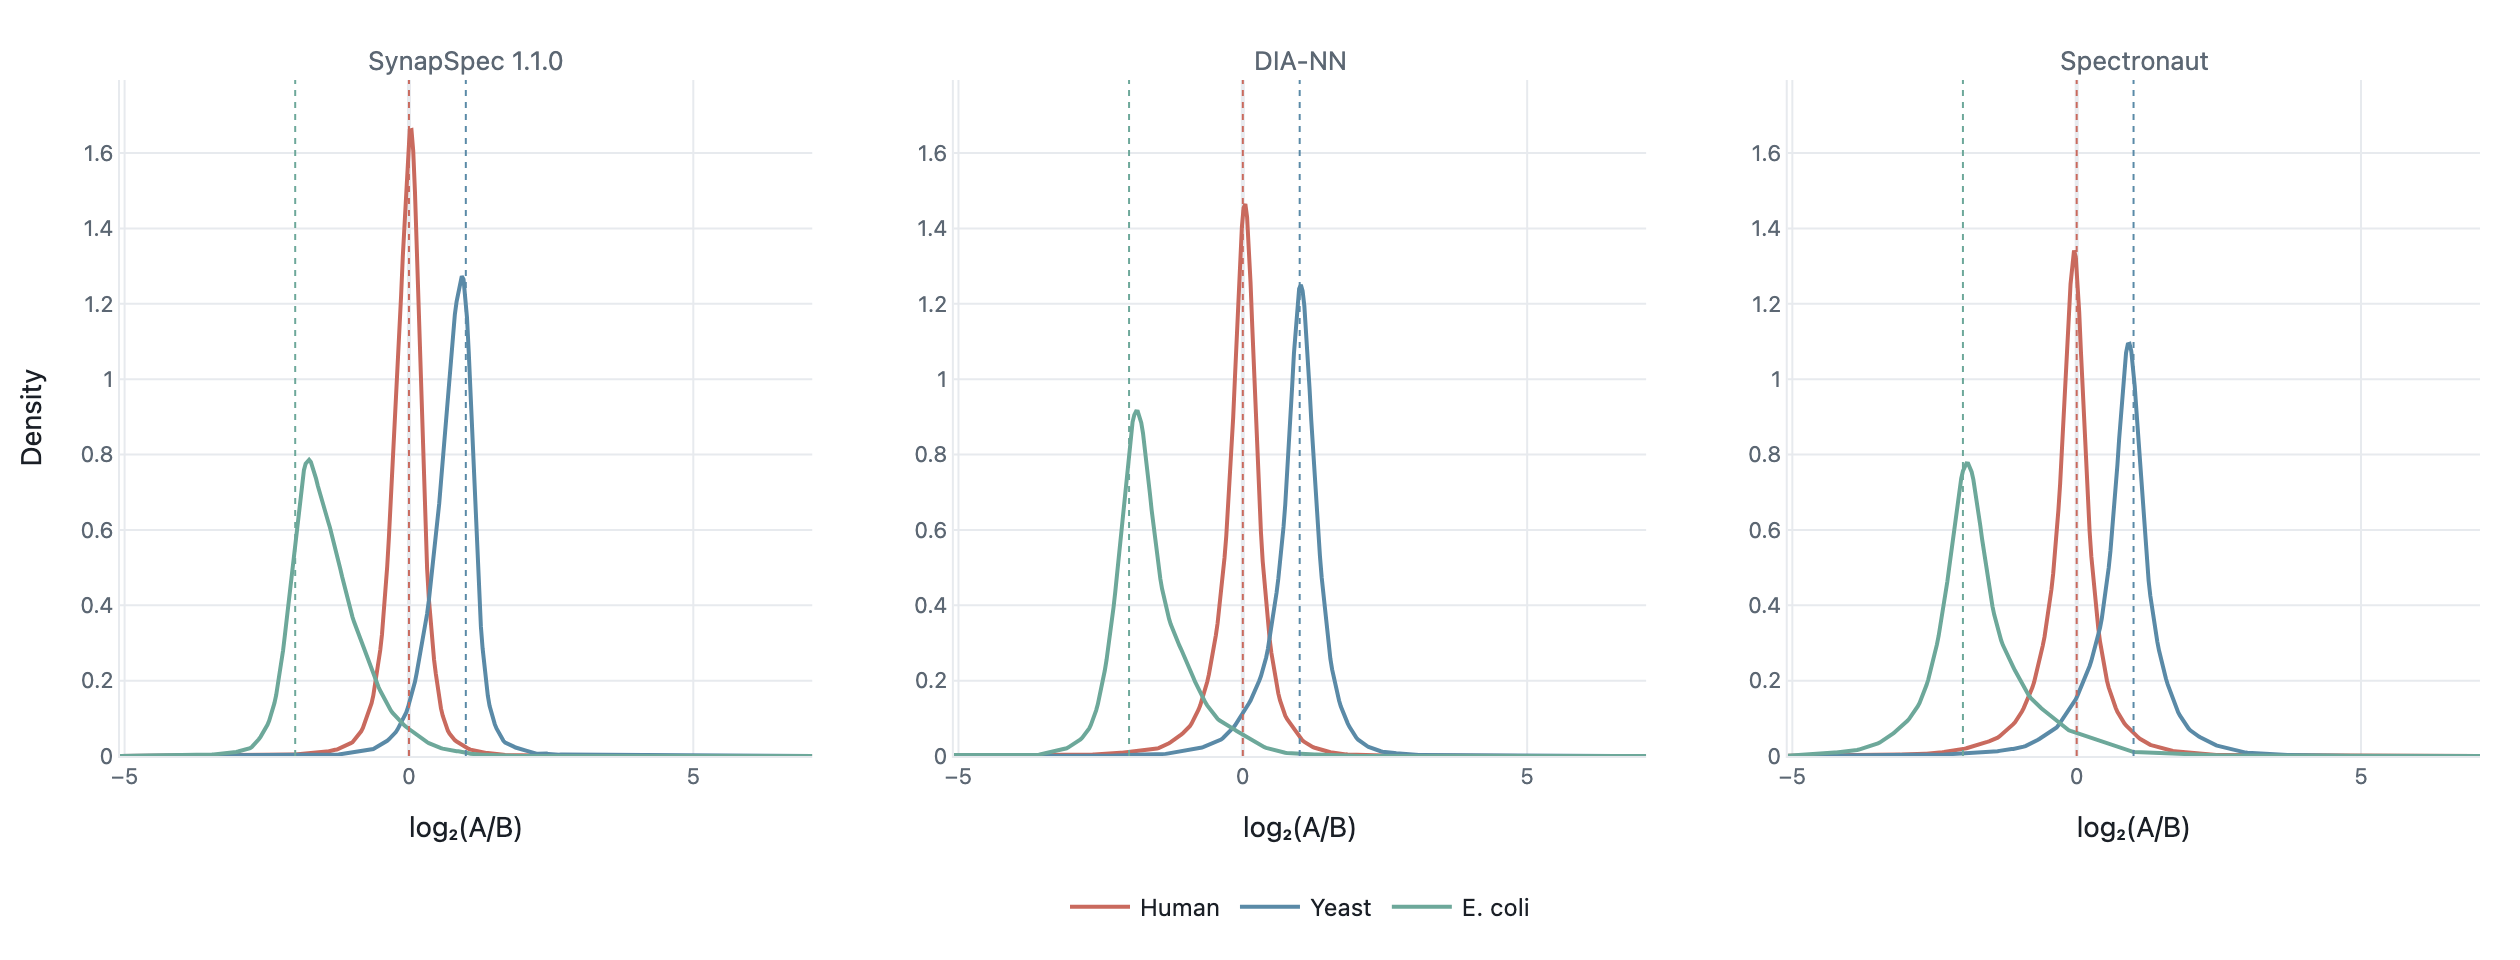
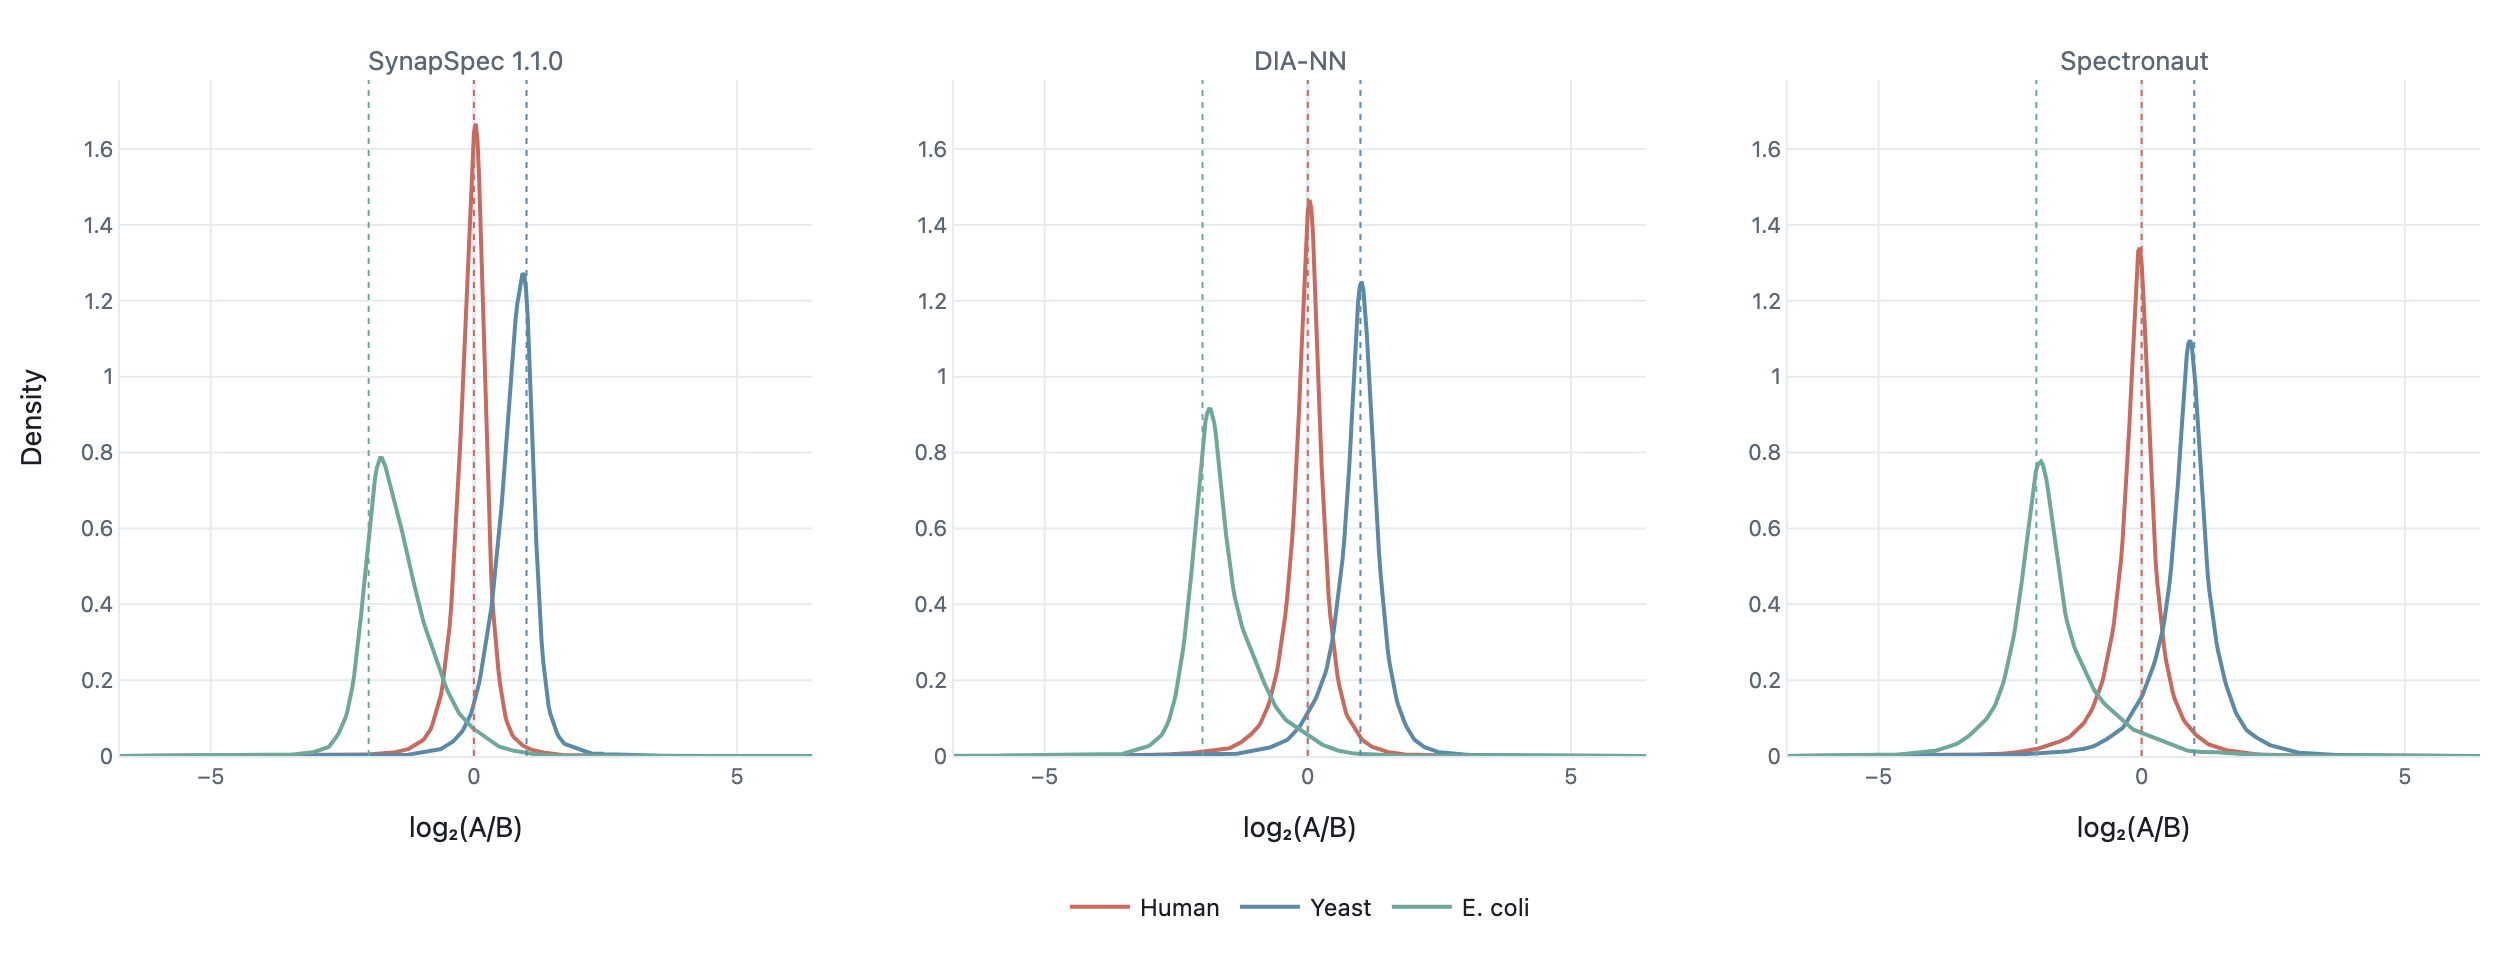
fix(benchmarks): keep release plot axes consistent

diff --git a/scripts/render_scatter_images.py b/scripts/render_scatter_images.py
@@ -8,9 +8,9 @@ with Plotly (Python) and Kaleido, then writes each result to
 site/public/data/benchmarks/scatter-{slug}.png. At runtime, the page only needs to
 download a single image.
 
-SynapSpec, DIA-NN, and Spectronaut are shown as subplots in one figure. Each tool
-keeps its own x-axis sensitivity range, while every panel uses the SynapSpec run's
-y-axis range for comparison.
+SynapSpec, DIA-NN, and Spectronaut are shown as subplots in one figure. Releases
+in the same benchmark ledger reuse the v1.0.0 axes when that baseline is
+available, so version pages remain directly comparable.
 
 One-time local setup (does not affect the site or CI):
     brew install --cask font-pretendard   # Match the site's font in generated images.
@@ -45,14 +45,19 @@ SPECIES_ORDER = ("Human", "Yeast", "E. coli")
 TARGETS = {"Human": 0, "Yeast": 1, "E. coli": -2}
 MARKER_SIZE = 2
 MARKER_OPACITY = 0.25
+AXIS_REFERENCE_VERSION = "v1.0.0"
 
 PANEL_WIDTH = 420
 PANEL_HEIGHT = 480
 
 
 def parse_args() -> argparse.Namespace:
-    parser = argparse.ArgumentParser(description=__doc__, formatter_class=argparse.RawDescriptionHelpFormatter)
-    parser.add_argument("--slug", help="Render only this run (default: every run with diagnostics)")
+    parser = argparse.ArgumentParser(
+        description=__doc__, formatter_class=argparse.RawDescriptionHelpFormatter
+    )
+    parser.add_argument(
+        "--slug", help="Render only this run (default: every run with diagnostics)"
+    )
     return parser.parse_args()
 
 
@@ -61,31 +66,91 @@ def load_json(path: Path) -> dict:
 
 
 def panels_for(slug: str, ledgers: list) -> list[dict]:
-    ledger = next((l for l in ledgers if any(r.get("sourceSlug") == slug for r in l["rows"])), None)
-    row = next((r for r in ledger["rows"] if r.get("sourceSlug") == slug), None) if ledger else None
+    ledger = next(
+        (l for l in ledgers if any(r.get("sourceSlug") == slug for r in l["rows"])),
+        None,
+    )
+    row = (
+        next((r for r in ledger["rows"] if r.get("sourceSlug") == slug), None)
+        if ledger
+        else None
+    )
     version = str(row.get("release_version") or "").removeprefix("v") if row else ""
     title = f"SynapSpec {version}" if version else "SynapSpec"
     panels = [{"tool": title, "path": BENCH_DIR / f"scatter-{slug}.json"}]
     if ledger:
         for tool in ("DIA-NN", "Spectronaut"):
-            ref = next((r for r in ledger["toolReferences"] if r["tool"] == tool and r.get("sourceSlug")), None)
+            ref = next(
+                (
+                    r
+                    for r in ledger["toolReferences"]
+                    if r["tool"] == tool and r.get("sourceSlug")
+                ),
+                None,
+            )
             if ref:
-                panels.append({"tool": tool, "path": BENCH_DIR / f"scatter-{ref['sourceSlug']}.json"})
+                panels.append(
+                    {
+                        "tool": tool,
+                        "path": BENCH_DIR / f"scatter-{ref['sourceSlug']}.json",
+                    }
+                )
     return [p for p in panels if p["path"].exists()]
 
 
-def primary_y_range(cloud: dict, pad_fraction: float = 0.04) -> list[float]:
-    values = [value for points in cloud.values() for value in points["y"]]
+def reference_slug_for(slug: str, ledgers: list) -> str:
+    ledger = next(
+        (
+            item
+            for item in ledgers
+            if any(row.get("sourceSlug") == slug for row in item["rows"])
+        ),
+        None,
+    )
+    if not ledger:
+        return slug
+    reference = next(
+        (
+            row
+            for row in ledger["rows"]
+            if row.get("release_version") == AXIS_REFERENCE_VERSION
+        ),
+        None,
+    )
+    return (
+        reference.get("sourceSlug")
+        if reference and reference.get("sourceSlug")
+        else slug
+    )
+
+
+def padded_range(cloud: dict, coordinate: str, pad_fraction: float) -> list[float]:
+    values = [value for points in cloud.values() for value in points[coordinate]]
     lo, hi = min(values), max(values)
     pad = (hi - lo) * pad_fraction
     return [lo - pad, hi + pad]
 
 
-def render(slug: str, panels: list[dict]) -> None:
-    clouds = [load_json(p["path"]) for p in panels]
-    y_range = primary_y_range(clouds[0])
+def primary_y_range(cloud: dict, pad_fraction: float = 0.04) -> list[float]:
+    return padded_range(cloud, "y", pad_fraction)
 
-    fig = make_subplots(rows=1, cols=len(panels), subplot_titles=[p["tool"] for p in panels], horizontal_spacing=0.06)
+
+def panel_x_range(cloud: dict, pad_fraction: float = 0.071) -> list[float]:
+    return padded_range(cloud, "x", pad_fraction)
+
+
+def render(slug: str, panels: list[dict], reference_panels: list[dict]) -> None:
+    clouds = [load_json(p["path"]) for p in panels]
+    reference_clouds = [load_json(panel["path"]) for panel in reference_panels]
+    y_range = primary_y_range(reference_clouds[0])
+    x_ranges = [panel_x_range(cloud) for cloud in reference_clouds]
+
+    fig = make_subplots(
+        rows=1,
+        cols=len(panels),
+        subplot_titles=[p["tool"] for p in panels],
+        horizontal_spacing=0.06,
+    )
 
     for i, (panel, cloud) in enumerate(zip(panels, clouds), start=1):
         axis_suffix = "" if i == 1 else str(i)
@@ -123,10 +188,13 @@ def render(slug: str, panels: list[dict]) -> None:
                 yref=f"y{axis_suffix}",
                 y0=target,
                 y1=target,
-                line=dict(color=SPECIES_COLORS.get(species, COLOR_TEXT), width=1, dash="dot"),
+                line=dict(
+                    color=SPECIES_COLORS.get(species, COLOR_TEXT), width=1, dash="dot"
+                ),
             )
 
         fig.update_xaxes(
+            range=x_ranges[i - 1] if i <= len(x_ranges) else panel_x_range(cloud),
             title_text="log₂(mean quantity in B)",
             row=1,
             col=i,
@@ -152,7 +220,9 @@ def render(slug: str, panels: list[dict]) -> None:
         paper_bgcolor="rgba(0,0,0,0)",
         plot_bgcolor="rgba(0,0,0,0)",
         showlegend=True,
-        legend=dict(orientation="h", x=0.5, xanchor="center", y=-0.18, itemsizing="constant"),
+        legend=dict(
+            orientation="h", x=0.5, xanchor="center", y=-0.18, itemsizing="constant"
+        ),
         margin=dict(t=40, r=20, b=90, l=60),
         width=PANEL_WIDTH * len(panels),
         height=PANEL_HEIGHT,
@@ -161,7 +231,9 @@ def render(slug: str, panels: list[dict]) -> None:
 
     out_path = BENCH_DIR / f"scatter-{slug}.png"
     fig.write_image(str(out_path), scale=2)
-    print(f"wrote {out_path.relative_to(ROOT)} ({len(panels)} panel(s): {', '.join(p['tool'] for p in panels)})")
+    print(
+        f"wrote {out_path.relative_to(ROOT)} ({len(panels)} panel(s): {', '.join(p['tool'] for p in panels)})"
+    )
 
 
 def main() -> None:
@@ -183,7 +255,8 @@ def main() -> None:
         if not panels:
             print(f"skip {slug}: no scatter data")
             continue
-        render(slug, panels)
+        reference_panels = panels_for(reference_slug_for(slug, ledgers), ledgers)
+        render(slug, panels, reference_panels or panels)
 
 
 if __name__ == "__main__":

diff --git a/scripts/render_density_images.py b/scripts/render_density_images.py
@@ -9,9 +9,10 @@ render_scatter_images.py. Each species y value is already a precursor-level
 log2(A/B) ratio, so SciPy computes the KDE and Plotly (Python) with Kaleido writes
 site/public/data/benchmarks/density-{slug}.png.
 
-SynapSpec, DIA-NN, and Spectronaut are shown as adjacent subplots. Every panel
-uses the SynapSpec run's log2 ratio range and a shared density range. Static
-rendering also prevents axes from shifting as additional panels load.
+SynapSpec, DIA-NN, and Spectronaut are shown as adjacent subplots. Releases in
+the same benchmark ledger reuse the v1.0.0 axes when that baseline is available,
+so version pages remain directly comparable. Static rendering also prevents axes
+from shifting as additional panels load.
 
 One-time local setup (does not affect the site or CI):
     brew install --cask font-pretendard
@@ -46,6 +47,7 @@ COLOR_BORDER = "#e7eaee"
 SPECIES_COLORS = {"Human": "#c96a5e", "Yeast": "#5a8aa7", "E. coli": "#6da89a"}
 SPECIES_ORDER = ("Human", "Yeast", "E. coli")
 TARGETS = {"Human": 0, "Yeast": 1, "E. coli": -2}
+AXIS_REFERENCE_VERSION = "v1.0.0"
 
 PANEL_WIDTH = 420
 PANEL_HEIGHT = 480
@@ -53,8 +55,12 @@ GRID_POINTS = 400
 
 
 def parse_args() -> argparse.Namespace:
-    parser = argparse.ArgumentParser(description=__doc__, formatter_class=argparse.RawDescriptionHelpFormatter)
-    parser.add_argument("--slug", help="Render only this run (default: every run with diagnostics)")
+    parser = argparse.ArgumentParser(
+        description=__doc__, formatter_class=argparse.RawDescriptionHelpFormatter
+    )
+    parser.add_argument(
+        "--slug", help="Render only this run (default: every run with diagnostics)"
+    )
     return parser.parse_args()
 
 
@@ -63,17 +69,62 @@ def load_json(path: Path) -> dict:
 
 
 def panels_for(slug: str, ledgers: list) -> list[dict]:
-    ledger = next((l for l in ledgers if any(r.get("sourceSlug") == slug for r in l["rows"])), None)
-    row = next((r for r in ledger["rows"] if r.get("sourceSlug") == slug), None) if ledger else None
+    ledger = next(
+        (l for l in ledgers if any(r.get("sourceSlug") == slug for r in l["rows"])),
+        None,
+    )
+    row = (
+        next((r for r in ledger["rows"] if r.get("sourceSlug") == slug), None)
+        if ledger
+        else None
+    )
     version = str(row.get("release_version") or "").removeprefix("v") if row else ""
     title = f"SynapSpec {version}" if version else "SynapSpec"
     panels = [{"tool": title, "path": BENCH_DIR / f"scatter-{slug}.json"}]
     if ledger:
         for tool in ("DIA-NN", "Spectronaut"):
-            ref = next((r for r in ledger["toolReferences"] if r["tool"] == tool and r.get("sourceSlug")), None)
+            ref = next(
+                (
+                    r
+                    for r in ledger["toolReferences"]
+                    if r["tool"] == tool and r.get("sourceSlug")
+                ),
+                None,
+            )
             if ref:
-                panels.append({"tool": tool, "path": BENCH_DIR / f"scatter-{ref['sourceSlug']}.json"})
+                panels.append(
+                    {
+                        "tool": tool,
+                        "path": BENCH_DIR / f"scatter-{ref['sourceSlug']}.json",
+                    }
+                )
     return [p for p in panels if p["path"].exists()]
+
+
+def reference_slug_for(slug: str, ledgers: list) -> str:
+    ledger = next(
+        (
+            item
+            for item in ledgers
+            if any(row.get("sourceSlug") == slug for row in item["rows"])
+        ),
+        None,
+    )
+    if not ledger:
+        return slug
+    reference = next(
+        (
+            row
+            for row in ledger["rows"]
+            if row.get("release_version") == AXIS_REFERENCE_VERSION
+        ),
+        None,
+    )
+    return (
+        reference.get("sourceSlug")
+        if reference and reference.get("sourceSlug")
+        else slug
+    )
 
 
 def x_range_for(cloud: dict, pad_fraction: float = 0.04) -> list[float]:
@@ -83,9 +134,20 @@ def x_range_for(cloud: dict, pad_fraction: float = 0.04) -> list[float]:
     return [float(lo - pad), float(hi + pad)]
 
 
-def render(slug: str, panels: list[dict]) -> None:
+def density_max(clouds: list[dict], grid: np.ndarray) -> float:
+    maxima = []
+    for cloud in clouds:
+        for species in SPECIES_ORDER:
+            points = cloud.get(species)
+            if points:
+                maxima.append(float(gaussian_kde(points["y"])(grid).max()))
+    return max(maxima) * 1.08
+
+
+def render(slug: str, panels: list[dict], reference_panels: list[dict]) -> None:
     clouds = [load_json(p["path"]) for p in panels]
-    x_range = x_range_for(clouds[0])
+    reference_clouds = [load_json(panel["path"]) for panel in reference_panels]
+    x_range = x_range_for(reference_clouds[0])
     grid = np.linspace(x_range[0], x_range[1], GRID_POINTS)
 
     curves = []  # (panel index, species, density array)
@@ -96,9 +158,14 @@ def render(slug: str, panels: list[dict]) -> None:
                 continue
             kde = gaussian_kde(pts["y"])
             curves.append((i, species, kde(grid)))
-    y_max = max(curve.max() for _, _, curve in curves) * 1.08
+    y_max = density_max(reference_clouds, grid)
 
-    fig = make_subplots(rows=1, cols=len(panels), subplot_titles=[p["tool"] for p in panels], horizontal_spacing=0.06)
+    fig = make_subplots(
+        rows=1,
+        cols=len(panels),
+        subplot_titles=[p["tool"] for p in panels],
+        horizontal_spacing=0.06,
+    )
 
     seen_species: set[str] = set()
     for i, species, density in curves:
@@ -142,7 +209,9 @@ def render(slug: str, panels: list[dict]) -> None:
                 yref=f"y{axis_suffix}",
                 y0=0,
                 y1=y_max,
-                line=dict(color=SPECIES_COLORS.get(species, COLOR_TEXT), width=1, dash="dot"),
+                line=dict(
+                    color=SPECIES_COLORS.get(species, COLOR_TEXT), width=1, dash="dot"
+                ),
             )
         fig.update_xaxes(
             range=x_range,
@@ -168,7 +237,9 @@ def render(slug: str, panels: list[dict]) -> None:
 
     out_path = BENCH_DIR / f"density-{slug}.png"
     fig.write_image(str(out_path), scale=2)
-    print(f"wrote {out_path.relative_to(ROOT)} ({len(panels)} panel(s): {', '.join(p['tool'] for p in panels)})")
+    print(
+        f"wrote {out_path.relative_to(ROOT)} ({len(panels)} panel(s): {', '.join(p['tool'] for p in panels)})"
+    )
 
 
 def main() -> None:
@@ -190,7 +261,8 @@ def main() -> None:
         if not panels:
             print(f"skip {slug}: no scatter data")
             continue
-        render(slug, panels)
+        reference_panels = panels_for(reference_slug_for(slug, ledgers), ledgers)
+        render(slug, panels, reference_panels or panels)
 
 
 if __name__ == "__main__":
